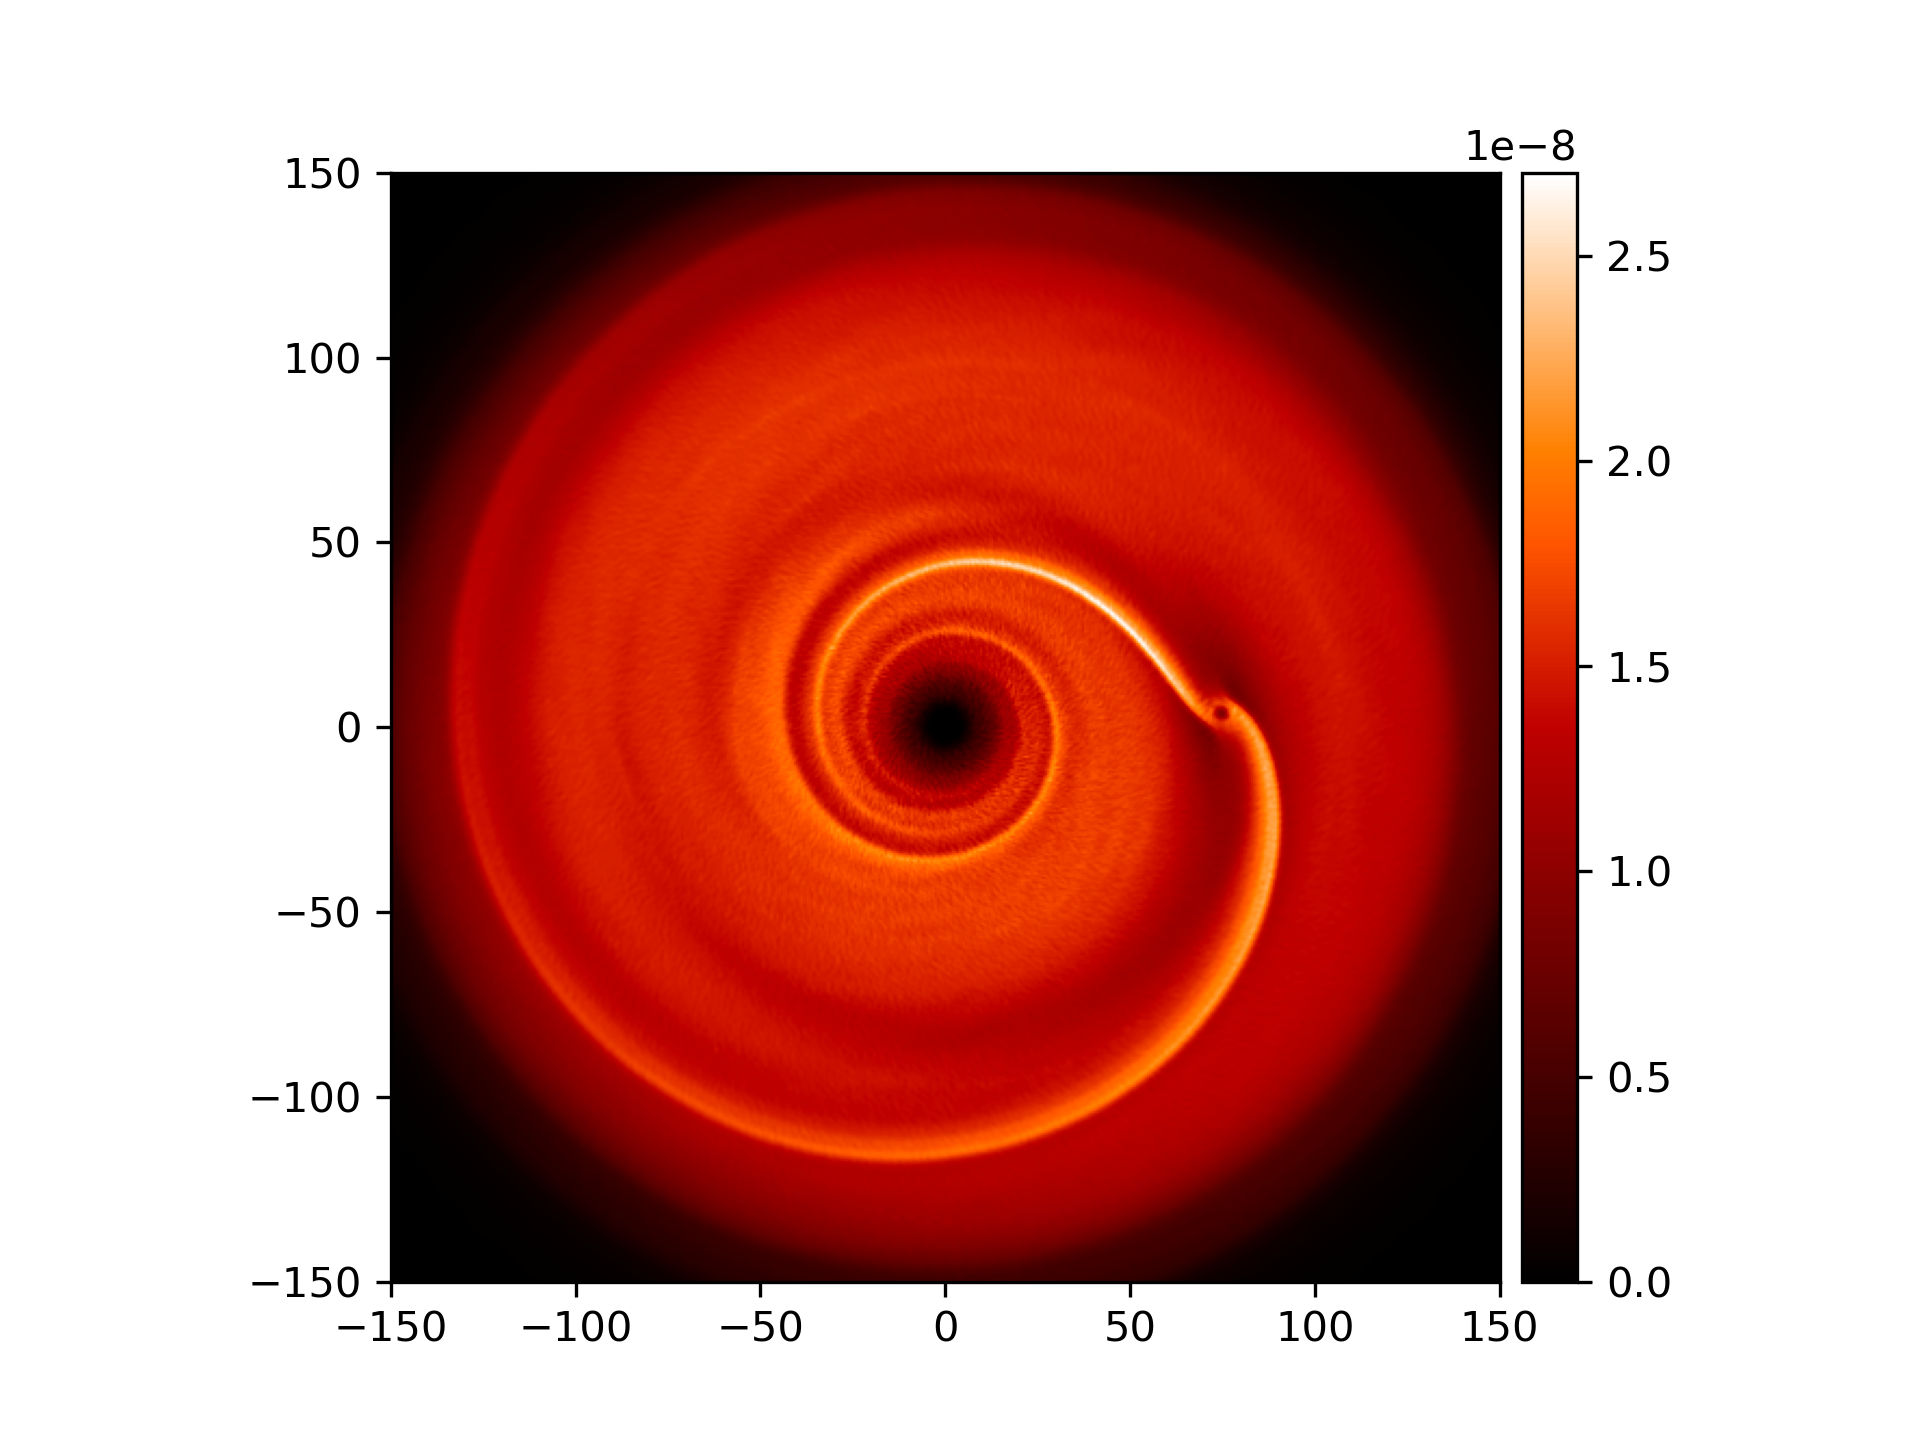
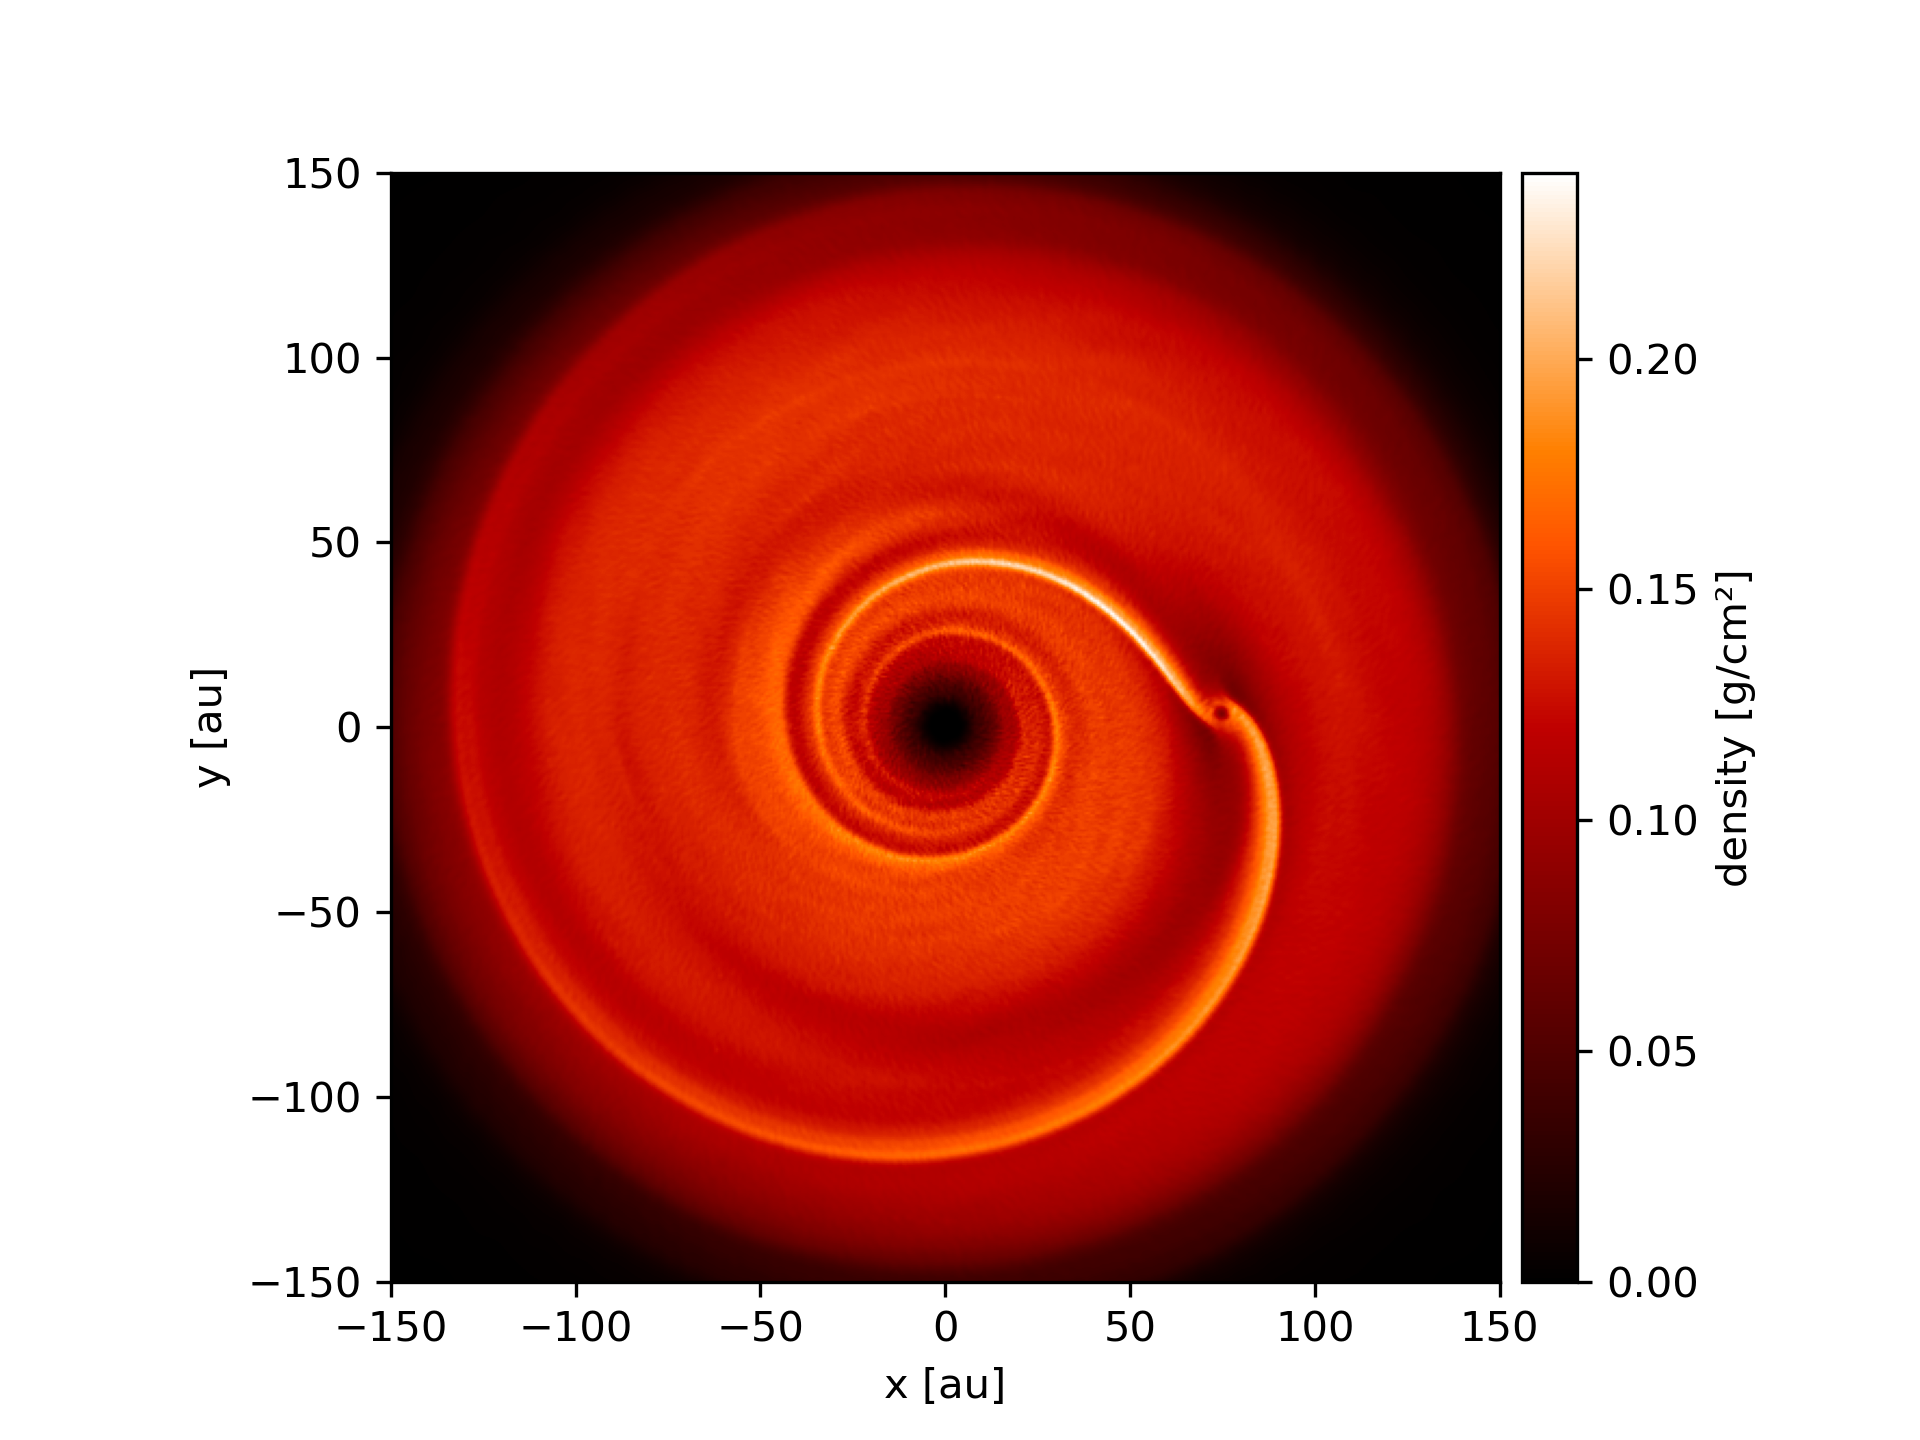
Update quickstart in docs

diff --git a/docs/source/quickstart.rst b/docs/source/quickstart.rst
@@ -17,15 +17,27 @@ Load a single snapshot, and access particle arrays and properties.
 .. code-block:: python
 
     >>> import plonk
+
     >>> snap = plonk.load_snap('disc_00030.h5')
+
     >>> snap['position']
-    array([[ -24.69953214,   49.60113417,   -4.98059478],
-           [-108.99243136,   77.74663833,   12.89299546],
-           [ -51.22218782,  108.64454019,    1.56619644],
+    array([[-3.69505001e+14,  7.42032967e+14, -7.45096980e+13],
+           [-1.63052677e+15,  1.16308971e+15,  1.92879212e+14],
+           [-7.66283930e+14,  1.62532232e+15,  2.34302988e+13],
            ...,
-           [  93.296599  ,  -77.66042087,    5.40835798],
-           [  63.75108128,   66.7446782 ,    3.30169363],
-           [   8.11639008,  139.45117413,    7.55340187]])
+           [ 1.39571712e+15, -1.16179990e+15,  8.09090354e+13],
+           [ 9.53716176e+14,  9.98500386e+14,  4.93933367e+13],
+           [ 1.21421196e+14,  2.08618956e+15,  1.12998892e+14]]) <Unit('centimeter')>
+
+    >>> snap['position'].to('au')
+    array([[ -24.6998837 ,   49.60184016,   -4.98066567],
+           [-108.99398271,   77.74774493,   12.89317897],
+           [ -51.22291689,  108.64608658,    1.56621873],
+           ...,
+           [  93.29792694,  -77.66152625,    5.40843496],
+           [  63.75198868,   66.74562821,    3.30174062],
+           [   8.11650561,  139.453159  ,    7.55350939]]) <Unit('astronomical_unit')>
+
     >>> snap.properties['time']
     61485663602.558136 <Unit('second')>
 
@@ -39,7 +51,9 @@ Load a Phantom `.ev` file, and see what columns are available.
 .. code-block:: python
 
     >>> import plonk
+
     >>> ev = plonk.load_ev('disc01.ev')
+
     >>> ev.columns
     Index(['time', 'energy_kinetic', 'energy_thermal', 'energy_magnetic',
            'energy_potential', 'energy_total', 'momentum', 'angular_momentum',
@@ -58,10 +72,45 @@ Load a simulation, and access snapshots and other data.
 .. code-block:: python
 
     >>> import plonk
+
     >>> sim = plonk.load_sim(prefix='disc')
+
     >>> snaps = sim.snaps
+    [<plonk.Snap "disc_00000.h5">,
+     <plonk.Snap "disc_00001.h5">,
+     <plonk.Snap "disc_00002.h5">,
+     <plonk.Snap "disc_00003.h5">,
+     <plonk.Snap "disc_00004.h5">,
+     <plonk.Snap "disc_00005.h5">,
+     <plonk.Snap "disc_00006.h5">,
+     <plonk.Snap "disc_00007.h5">,
+     <plonk.Snap "disc_00008.h5">,
+     <plonk.Snap "disc_00009.h5">,
+     <plonk.Snap "disc_00010.h5">,
+     <plonk.Snap "disc_00011.h5">,
+     <plonk.Snap "disc_00012.h5">,
+     <plonk.Snap "disc_00013.h5">,
+     <plonk.Snap "disc_00014.h5">,
+     <plonk.Snap "disc_00015.h5">,
+     <plonk.Snap "disc_00016.h5">,
+     <plonk.Snap "disc_00017.h5">,
+     <plonk.Snap "disc_00018.h5">,
+     <plonk.Snap "disc_00019.h5">,
+     <plonk.Snap "disc_00020.h5">,
+     <plonk.Snap "disc_00021.h5">,
+     <plonk.Snap "disc_00022.h5">,
+     <plonk.Snap "disc_00023.h5">,
+     <plonk.Snap "disc_00024.h5">,
+     <plonk.Snap "disc_00025.h5">,
+     <plonk.Snap "disc_00026.h5">,
+     <plonk.Snap "disc_00027.h5">,
+     <plonk.Snap "disc_00028.h5">,
+     <plonk.Snap "disc_00029.h5">,
+     <plonk.Snap "disc_00030.h5">]
+
     >>> sim.global_quantities
     # Output is a pandas DataFrame
+
     >>> sim.sink_quantities
     # Output is a list of pandas DataFrames
 
@@ -78,11 +127,16 @@ Produce a projection image plot of density.
 .. code-block:: python
 
     >>> import plonk
+
     >>> snap = plonk.load_snap('disc_00030.h5')
+
+    >>> au = plonk.units('au')
+
     >>> plonk.visualize.plot(
     ...    snap=snap,
     ...    quantity='density',
-    ...    extent=(-150, 150, -150, 150),
+    ...    extent=(-150, 150, -150, 150) * au,
+    ...    units={'quantity': 'g/cm^3', 'extent': 'au', 'projection': 'cm'},
     ...    cmap='gist_heat',
     ... )
 
@@ -102,8 +156,11 @@ Create a radial profile.
 
     >>> import matplotlib.pyplot as plt
     >>> import plonk
+
     >>> snap = plonk.load_snap('disc_00030.h5')
+
     >>> prof = plonk.load_profile(snap)
+
     >>> prof.available_profiles()
     ('angular_momentum_phi',
      'angular_momentum_theta',
@@ -131,10 +188,10 @@ Create a radial profile.
      'type',
      'velocity',
      'velocity_divergence')
+
     >>> with plt.style.context('seaborn'):
-    ...     ax = prof.plot('radius', 'scale_height')
+    ...     ax = prof.plot('radius', 'scale_height', x_unit='au', y_unit='au')
     ...     ax.set_xlabel('Radius [au]')
     ...     ax.set_ylabel('Scale height [au]')
-    >>> plt.show()
 
 .. image:: _static/scale_height.png
